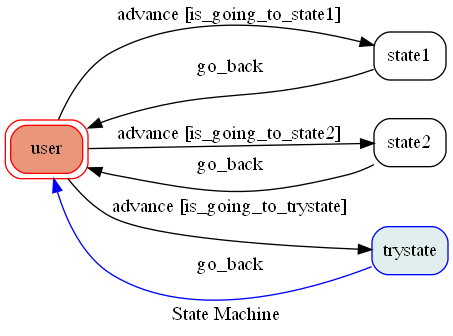
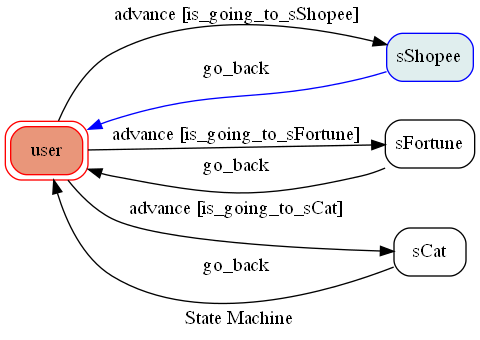
Maybe last commit.

diff --git a/fsm.py b/fsm.py
@@ -1,50 +1,66 @@
 from transitions.extensions import GraphMachine
 
-from utils import send_text_message
+from utils import *
+import random
 
 
 class TocMachine(GraphMachine):
     def __init__(self, **machine_configs):
         self.machine = GraphMachine(model=self, **machine_configs)
 
-    def is_going_to_state1(self, event):
+    def is_going_to_sShopee(self, event):
         text = event.message.text
-        return text.lower() == "go to state1"
+        return text.lower() == "蝦皮評論"
 
-    def is_going_to_state2(self, event):
+    def is_going_to_sFortune(self, event):
         text = event.message.text
-        return text.lower() == "go to state2"
+        return text.lower() == "此刻運勢"
 
-    def is_going_to_trystate(self, event):
+    def is_going_to_sCat(self, event):
         text = event.message.text
-        return text.lower() == "trystate"
+        return text.lower() == "可愛貓貓"
 
-    #state 1
-    def on_enter_state1(self, event):
-        print("I'm entering state1")
+    #sShopee
+    def on_enter_sShopee(self, event):
+        print("I'm entering sShopee")
 
         reply_token = event.reply_token
-        send_text_message(reply_token, "Trigger state1")
+        message = [add_text("蝦皮好評模板（30字+圖），複製使用唷"),
+                    add_text("賣場大大您好您賣的東西真的是好極了大家不用看了這絕對是超級讚的東西"),
+                    add_image(get_random_google_image('讚'))]
+        send_all_message(reply_token, message)
         self.go_back()
 
-    def on_exit_state1(self):
-        print("Leaving state1")
+    def on_exit_sShopee(self):
+        print("Leaving sShopee")
 
-    #state 2
-    def on_enter_state2(self, event):
-        print("I'm entering state2")
+    #sFortune
+    def on_enter_sFortune(self, event):
+        print("I'm entering sFortune")
+
+        f_kind = ['大吉', '中吉', '小吉', '吉', '末吉', '凶', '大凶']
+
+        ran = random.randint(0,6)
 
         reply_token = event.reply_token
-        send_text_message(reply_token, "Trigger state2")
+        message = [add_text(str("你此時此刻抽到了" + f_kind[ran] + ",下面這張圖是你的命定圖：")),
+                    add_image(get_random_google_image(str("運勢 " + f_kind[ran]))),
+                    add_text("這只是你此刻的運勢，過了0.1秒後可能就不一樣囉，結果僅供參考或者跟個人業障有關，啾咪<3")]
+        send_all_message(reply_token, message)
         self.go_back()
 
-    #trystate
-    def on_enter_trystate(self, event):
-        print("I'm entering trystate")
+    def on_exit_sFortune(self):
+        print("Leaving sFortune")
 
+    #sCat
+    def on_enter_sCat(self, event):
+        print("I'm entering sCat")
+        
         reply_token = event.reply_token
-        send_text_message(reply_token, "Trigger trystate")
+        message = [add_text('給你可愛貓貓！'),
+                    add_image(get_random_google_image('cute cat kitten'))]
+        send_all_message(reply_token, message)
         self.go_back()
 
-    def on_exit_trystate(self):
-        print("Leaving trystate")
+    def on_exit_sCat(self):
+        print("Leaving sCat")

diff --git a/utils.py b/utils.py
@@ -1,8 +1,11 @@
 import os
 
 from linebot import LineBotApi, WebhookParser
-from linebot.models import MessageEvent, TextMessage, TextSendMessage
-
+from linebot.models import *
+from linebot.models.send_messages import *
+import urllib
+import re
+import random
 
 channel_access_token = os.getenv("LINE_CHANNEL_ACCESS_TOKEN", None)
 
@@ -13,6 +16,55 @@ def send_text_message(reply_token, text):
 
     return "OK"
 
+def send_image_url(reply_token, img_url):
+    line_bot_api = LineBotApi(channel_access_token)
+    line_bot_api.reply_message(reply_token, ImageSendMessage(
+        original_content_url=img_url,
+        preview_image_url=img_url
+    ))
+
+def add_text(text):
+    return TextSendMessage(text=text)
+
+def add_image(url):
+    return ImageSendMessage(
+        original_content_url=url,
+        preview_image_url=url
+    )
+
+def send_all_message(reply_token, message):
+    line_bot_api = LineBotApi(channel_access_token)
+    line_bot_api.reply_message(reply_token, message)
+
+
+def get_random_google_image(search_text):
+    img_list = []
+    random_img_url = 'https://image-cdn.hypb.st/https%3A%2F%2Fhk.hypebeast.com%2Ffiles%2F2021%2F08%2Fnever-gonna-give-you-up-passes-one-billion-views-01.jpg?w=960&cbr=1&q=90&fit=max'
+
+    try:
+        img_search = {'tbm': 'isch', 'q': search_text}
+        #img_search = {'tbm': 'isch', 'q': '讚 手勢'}
+        query = urllib.parse.urlencode(img_search)
+        base  = "https://www.google.com/search?"
+        url   = str(base+query)
+
+        headers = {'User-Agent':'Mozilla/5.0 (Windows NT 10.0; Win64; x64) AppleWebKit/537.36 (KHTML, like Gecko) Chrome/76.0.3809.132 Safari/537.36'}
+
+        res  = urllib.request.Request(url, headers=headers)
+        con  = urllib.request.urlopen(res)
+        data = con.read()
+
+        pattern = '"(https://encrypted-tbn0.gstatic.com[\S]*)"'
+
+        for match in re.finditer(pattern, str(data, "utf-8")):
+            if len(match.group(1)) < 150:
+                img_list.append(match.group(1))
+    
+        random_img_url = img_list[random.randint(0, len(img_list)+1)]
+    except:
+        random_img_url = 'https://image-cdn.hypb.st/https%3A%2F%2Fhk.hypebeast.com%2Ffiles%2F2021%2F08%2Fnever-gonna-give-you-up-passes-one-billion-views-01.jpg?w=960&cbr=1&q=90&fit=max'
+
+    return random_img_url
 
 """
 def send_image_url(id, img_url):

diff --git a/app.py b/app.py
@@ -14,27 +14,27 @@ load_dotenv()
 
 
 machine = TocMachine(
-    states=["user", "state1", "state2", "trystate"],
+    states=["user", "sShopee", "sFortune", "sCat"],
     transitions=[
         {
             "trigger": "advance",
             "source": "user",
-            "dest": "state1",
-            "conditions": "is_going_to_state1",
+            "dest": "sShopee",
+            "conditions": "is_going_to_sShopee",
         },
         {
             "trigger": "advance",
             "source": "user",
-            "dest": "state2",
-            "conditions": "is_going_to_state2",
+            "dest": "sFortune",
+            "conditions": "is_going_to_sFortune",
         },
         {
             "trigger": "advance",
             "source": "user",
-            "dest": "trystate",
-            "conditions": "is_going_to_trystate",
+            "dest": "sCat",
+            "conditions": "is_going_to_sCat",
         },
-        {"trigger": "go_back", "source": ["state1", "state2", "trystate"], "dest": "user"},
+        {"trigger": "go_back", "source": ["sShopee", "sFortune", "sCat"], "dest": "user"},
     ],
     initial="user",
     auto_transitions=False,
@@ -110,7 +110,8 @@ def webhook_handler():
         print(f"REQUEST BODY: \n{body}")
         response = machine.advance(event)
         if response == False:
-            send_text_message(event.reply_token, "Not Entering any State")
+            mes = "抱歉看不懂，作者在混\n以下指令我能看懂：\n蝦皮評論\n此刻運勢\n可愛貓貓"
+            send_text_message(event.reply_token, mes)
 
     return "OK"
 
